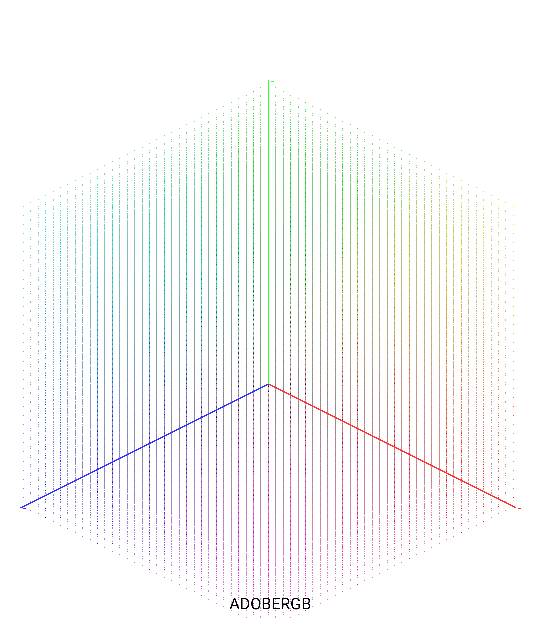
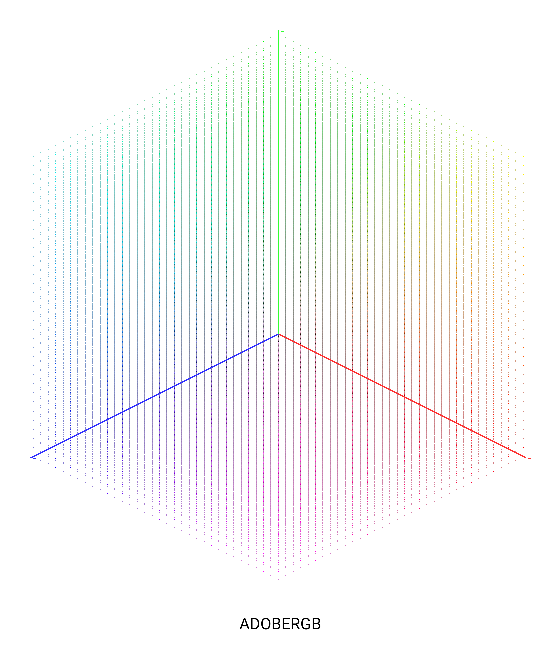
feat: dynamic images

Changed region(s): [[0.0593, 0.0614, 0.9481, 0.9208], [0.4148, 0.9515, 0.5926, 1.0], [0.0593, 0.7981, 0.0889, 0.8288]]

diff --git a/cmd/generate_gamuts/main.go b/cmd/generate_gamuts/main.go
@@ -113,7 +113,10 @@ func generateGamutVolume(createColor func(r, g, b float64) col.Color, spaceName,
 
 	scaleFactor := float64(scaledWidth) * 0.35
 	centerX := float64(scaledWidth) / 2
-	centerY := float64(scaledHeight) / 2
+	// Position gamut higher to leave room for label at bottom
+	// Reserve about 20% of height for label
+	labelReserve := float64(scaledHeight) * 0.20
+	centerY := (float64(scaledHeight) - labelReserve) / 2
 
 	// Sample RGB cube and project to 3D view
 	step := 0.03
@@ -209,47 +212,40 @@ func generateGamutVolume(createColor func(r, g, b float64) col.Color, spaceName,
 
 	// Find bounding box of non-transparent pixels
 	minX, minY, maxX, maxY := findBoundingBox(img)
-	
-	// Add padding for label
-	labelHeight := int(30 * float64(scale))
-	padding := int(10 * float64(scale))
-	
-	// Create cropped image with label space
+
+	// Add padding around gamut and space for label
+	labelHeight := int(40 * float64(scale))
+	padding := int(15 * float64(scale))
+
+	// Create cropped image with label space at bottom
 	croppedWidth := maxX - minX + padding*2
 	croppedHeight := maxY - minY + padding*2 + labelHeight
-	
-	// Adjust bounds to include label
-	if minY > labelHeight {
-		minY -= labelHeight
-	} else {
-		croppedHeight += labelHeight
-		minY = 0
-	}
-	
+
 	croppedImg := image.NewRGBA(image.Rect(0, 0, croppedWidth, croppedHeight))
-	
+
 	// Fill with transparent background
 	for y := 0; y < croppedHeight; y++ {
 		for x := 0; x < croppedWidth; x++ {
 			croppedImg.Set(x, y, color.RGBA{0, 0, 0, 0})
 		}
 	}
-	
-	// Copy gamut image to cropped image
+
+	// Copy gamut image to cropped image (positioned at top, leaving space for label at bottom)
 	for y := minY; y < maxY; y++ {
 		for x := minX; x < maxX; x++ {
 			if x >= 0 && x < scaledWidth && y >= 0 && y < scaledHeight {
 				c := img.RGBAAt(x, y)
 				if c.A > 0 {
-					croppedImg.Set(x-minX+padding, y-minY+padding+labelHeight, c)
+					// Position gamut at top with padding, label will go at bottom
+					croppedImg.Set(x-minX+padding, y-minY+padding, c)
 				}
 			}
 		}
 	}
-	
-	// Draw label
+
+	// Draw label at the bottom
 	drawGamutLabel(croppedImg, croppedWidth, croppedHeight, spaceName, textColor)
-	
+
 	// Scale down to final size
 	return scaleDown(croppedImg, croppedWidth/scale, croppedHeight/scale)
 }
@@ -257,7 +253,7 @@ func generateGamutVolume(createColor func(r, g, b float64) col.Color, spaceName,
 func findBoundingBox(img *image.RGBA) (minX, minY, maxX, maxY int) {
 	minX, minY = img.Bounds().Dx(), img.Bounds().Dy()
 	maxX, maxY = 0, 0
-	
+
 	for y := 0; y < img.Bounds().Dy(); y++ {
 		for x := 0; x < img.Bounds().Dx(); x++ {
 			if img.RGBAAt(x, y).A > 0 {
@@ -276,21 +272,35 @@ func findBoundingBox(img *image.RGBA) (minX, minY, maxX, maxY int) {
 			}
 		}
 	}
-	
+
+	// If no pixels found, return default bounds
+	if minX > maxX || minY > maxY {
+		return 0, 0, img.Bounds().Dx(), img.Bounds().Dy()
+	}
+
 	// Add small margin
-	if minX > 0 {
-		minX = max(0, minX-10*scale)
+	margin := 15 * scale
+	if minX > margin {
+		minX = minX - margin
+	} else {
+		minX = 0
 	}
-	if minY > 0 {
-		minY = max(0, minY-10*scale)
+	if minY > margin {
+		minY = minY - margin
+	} else {
+		minY = 0
 	}
-	if maxX < img.Bounds().Dx() {
-		maxX = min(img.Bounds().Dx(), maxX+10*scale)
+	if maxX < img.Bounds().Dx()-margin {
+		maxX = maxX + margin
+	} else {
+		maxX = img.Bounds().Dx()
 	}
-	if maxY < img.Bounds().Dy() {
-		maxY = min(img.Bounds().Dy(), maxY+10*scale)
+	if maxY < img.Bounds().Dy()-margin {
+		maxY = maxY + margin
+	} else {
+		maxY = img.Bounds().Dy()
 	}
-	
+
 	return
 }
 
@@ -310,10 +320,10 @@ func min(a, b int) int {
 
 func scaleDown(img *image.RGBA, targetWidth, targetHeight int) *image.RGBA {
 	result := image.NewRGBA(image.Rect(0, 0, targetWidth, targetHeight))
-	
+
 	scaleX := float64(img.Bounds().Dx()) / float64(targetWidth)
 	scaleY := float64(img.Bounds().Dy()) / float64(targetHeight)
-	
+
 	for y := 0; y < targetHeight; y++ {
 		for x := 0; x < targetWidth; x++ {
 			srcX := int(float64(x) * scaleX)
@@ -323,14 +333,14 @@ func scaleDown(img *image.RGBA, targetWidth, targetHeight int) *image.RGBA {
 			}
 		}
 	}
-	
+
 	return result
 }
 
 func drawGamutLabel(img *image.RGBA, width, height int, spaceName, textColor string) {
 	// Center the label text
 	text := strings.ToUpper(spaceName)
-	
+
 	// Determine primary and shadow colors
 	primaryColor := textColor
 	var shadowColor string
@@ -339,9 +349,11 @@ func drawGamutLabel(img *image.RGBA, width, height int, spaceName, textColor str
 	} else {
 		shadowColor = ""
 	}
-	
-	// Position text at the bottom, centered
-	textY := height - int(10*float64(scale))
+
+	// Position text at the bottom, centered vertically in the label area
+	// Label area is roughly the bottom 40px (scaled), center text in that area
+	labelAreaHeight := int(40 * float64(scale))
+	textY := height - labelAreaHeight/2
 	drawTextScaled(img, width/2, textY, text, primaryColor, shadowColor, true, scale)
 }
 
@@ -350,12 +362,12 @@ func drawTextScaled(img *image.RGBA, x, y int, text, primaryColor, shadowColor s
 	if primaryColor == "white" {
 		textCol = color.RGBA{255, 255, 255, 255}
 	}
-	
+
 	shadowCol := color.RGBA{0, 0, 0, 255}
 	if shadowColor == "white" {
 		shadowCol = color.RGBA{255, 255, 255, 255}
 	}
-	
+
 	if defaultTT != nil {
 		scaledFace, err := opentype.NewFace(defaultTT, &opentype.FaceOptions{
 			Size:    fontSize * float64(scale),
@@ -367,12 +379,12 @@ func drawTextScaled(img *image.RGBA, x, y int, text, primaryColor, shadowColor s
 			if center {
 				x = x - textWidth.Ceil()/2
 			}
-			
+
 			point := fixed.Point26_6{
 				X: fixed.Int26_6(x * 64),
 				Y: fixed.Int26_6(y * 64),
 			}
-			
+
 			// Draw shadow first if needed
 			if shadowColor != "" {
 				shadowPoint := fixed.Point26_6{
@@ -387,7 +399,7 @@ func drawTextScaled(img *image.RGBA, x, y int, text, primaryColor, shadowColor s
 				}
 				d.DrawString(text)
 			}
-			
+
 			// Draw primary text
 			d := &font.Drawer{
 				Dst:  img,
@@ -399,22 +411,22 @@ func drawTextScaled(img *image.RGBA, x, y int, text, primaryColor, shadowColor s
 			return
 		}
 	}
-	
+
 	// Fallback to basicfont
 	face := basicfont.Face7x13
 	fontScale := float64(fontSize) / 13.0
 	textWidth := int(float64(len(text)*7) * fontScale)
-	
+
 	if center {
 		x = x - (textWidth*scale)/2
 	}
-	
+
 	tempImg := image.NewRGBA(image.Rect(0, 0, textWidth+2, int(13*fontScale)+2))
 	point := fixed.Point26_6{
 		X: fixed.Int26_6(1 * 64),
 		Y: fixed.Int26_6(int(13*fontScale) * 64),
 	}
-	
+
 	d := &font.Drawer{
 		Dst:  tempImg,
 		Src:  image.NewUniform(textCol),
@@ -422,7 +434,7 @@ func drawTextScaled(img *image.RGBA, x, y int, text, primaryColor, shadowColor s
 		Dot:  point,
 	}
 	d.DrawString(text)
-	
+
 	for ty := 0; ty < tempImg.Bounds().Dy(); ty++ {
 		for tx := 0; tx < tempImg.Bounds().Dx(); tx++ {
 			c := tempImg.RGBAAt(tx, ty)

diff --git a/COLOR_PRIMER.md b/COLOR_PRIMER.md
@@ -130,33 +130,52 @@ The following diagrams illustrate how different color models represent the color
 The following images demonstrate how the same color stops (red to blue) appear when interpolated in different color spaces. Notice how RGB and HSL produce less uniform transitions, while OKLCH produces the smoothest, most perceptually uniform gradient.
 
 #### RGB Interpolation
-![RGB Gradient (Light Mode)](docs/gradients/gradient_rgb_black.png)
-![RGB Gradient (Dark Mode)](docs/gradients/gradient_rgb_white.png)
+
+<picture>
+  <source media="(prefers-color-scheme: dark)"  srcset="docs/gradients/gradient_rgb_white.png">
+  <source media="(prefers-color-scheme: light)" srcset="docs/gradients/gradient_rgb_black.png">
+  <img alt="RGB Gradient"                          src="docs/gradients/gradient_rgb_white.png">
+</picture>  
 *RGB interpolation - notice the "muddy" middle section and uneven transitions*
 
 #### HSL Interpolation
-![HSL Gradient (Light Mode)](docs/gradients/gradient_hsl_black.png)
-![HSL Gradient (Dark Mode)](docs/gradients/gradient_hsl_white.png)
+<picture>
+  <source media="(prefers-color-scheme: dark)"  srcset="docs/gradients/gradient_hsl_white.png">
+  <source media="(prefers-color-scheme: light)" srcset="docs/gradients/gradient_hsl_black.png">
+  <img alt="HSL Gradient"                          src="docs/gradients/gradient_hsl_white.png">
+</picture>  
 *HSL interpolation - hue-based, but lightness may feel uneven*
 
 #### LAB Interpolation
-![LAB Gradient (Light Mode)](docs/gradients/gradient_lab_black.png)
-![LAB Gradient (Dark Mode)](docs/gradients/gradient_lab_white.png)
+<picture>
+  <source media="(prefers-color-scheme: dark)"  srcset="docs/gradients/gradient_lab_white.png">
+  <source media="(prefers-color-scheme: light)" srcset="docs/gradients/gradient_lab_black.png">
+  <img alt="LAB Gradient"                          src="docs/gradients/gradient_lab_white.png">
+</picture>  
 *LAB interpolation - more perceptually uniform than RGB/HSL*
 
 #### OKLAB Interpolation
-![OKLAB Gradient (Light Mode)](docs/gradients/gradient_oklab_black.png)
-![OKLAB Gradient (Dark Mode)](docs/gradients/gradient_oklab_white.png)
+<picture>
+  <source media="(prefers-color-scheme: dark)"  srcset="docs/gradients/gradient_oklab_white.png">
+  <source media="(prefers-color-scheme: light)" srcset="docs/gradients/gradient_oklab_black.png">
+  <img alt="OKLAB Gradient"                        src="docs/gradients/gradient_oklab_white.png">
+</picture>  
 *OKLAB interpolation - modern, perceptually uniform space*
 
 #### LCH Interpolation
-![LCH Gradient (Light Mode)](docs/gradients/gradient_lch_black.png)
-![LCH Gradient (Dark Mode)](docs/gradients/gradient_lch_white.png)
+<picture>
+  <source media="(prefers-color-scheme: dark)"  srcset="docs/gradients/gradient_lch_white.png">
+  <source media="(prefers-color-scheme: light)" srcset="docs/gradients/gradient_lch_black.png">
+  <img alt="LCH Gradient"                          src="docs/gradients/gradient_lch_white.png">
+</picture>  
 *LCH interpolation - cylindrical representation of LAB*
 
 #### OKLCH Interpolation (Recommended)
-![OKLCH Gradient (Light Mode)](docs/gradients/gradient_oklch_black.png)
-![OKLCH Gradient (Dark Mode)](docs/gradients/gradient_oklch_white.png)
+<picture>
+  <source media="(prefers-color-scheme: dark)"  srcset="docs/gradients/gradient_oklch_white.png">
+  <source media="(prefers-color-scheme: light)" srcset="docs/gradients/gradient_oklch_black.png">
+  <img alt="OKLCH Gradient"                        src="docs/gradients/gradient_oklch_white.png">
+</picture>  
 *OKLCH interpolation - **recommended** for perceptually uniform gradients*
 
 ### Color Stops
